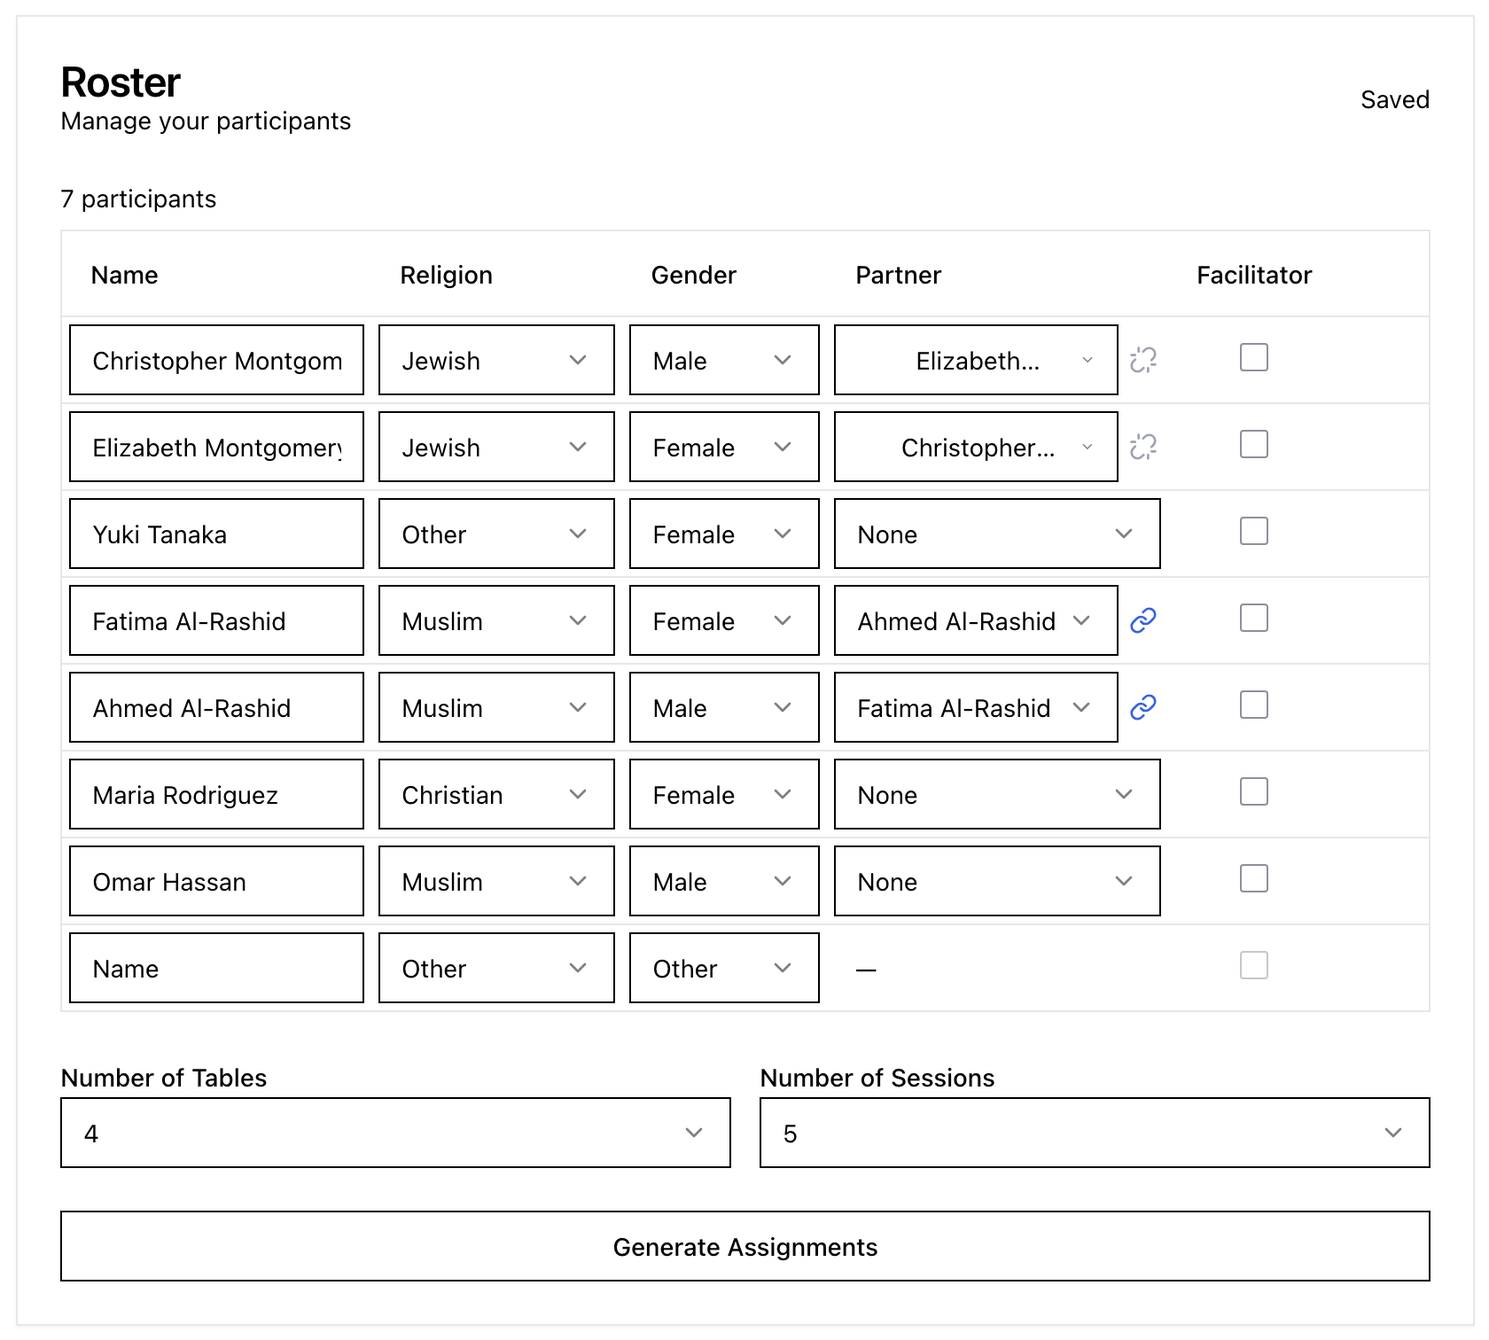
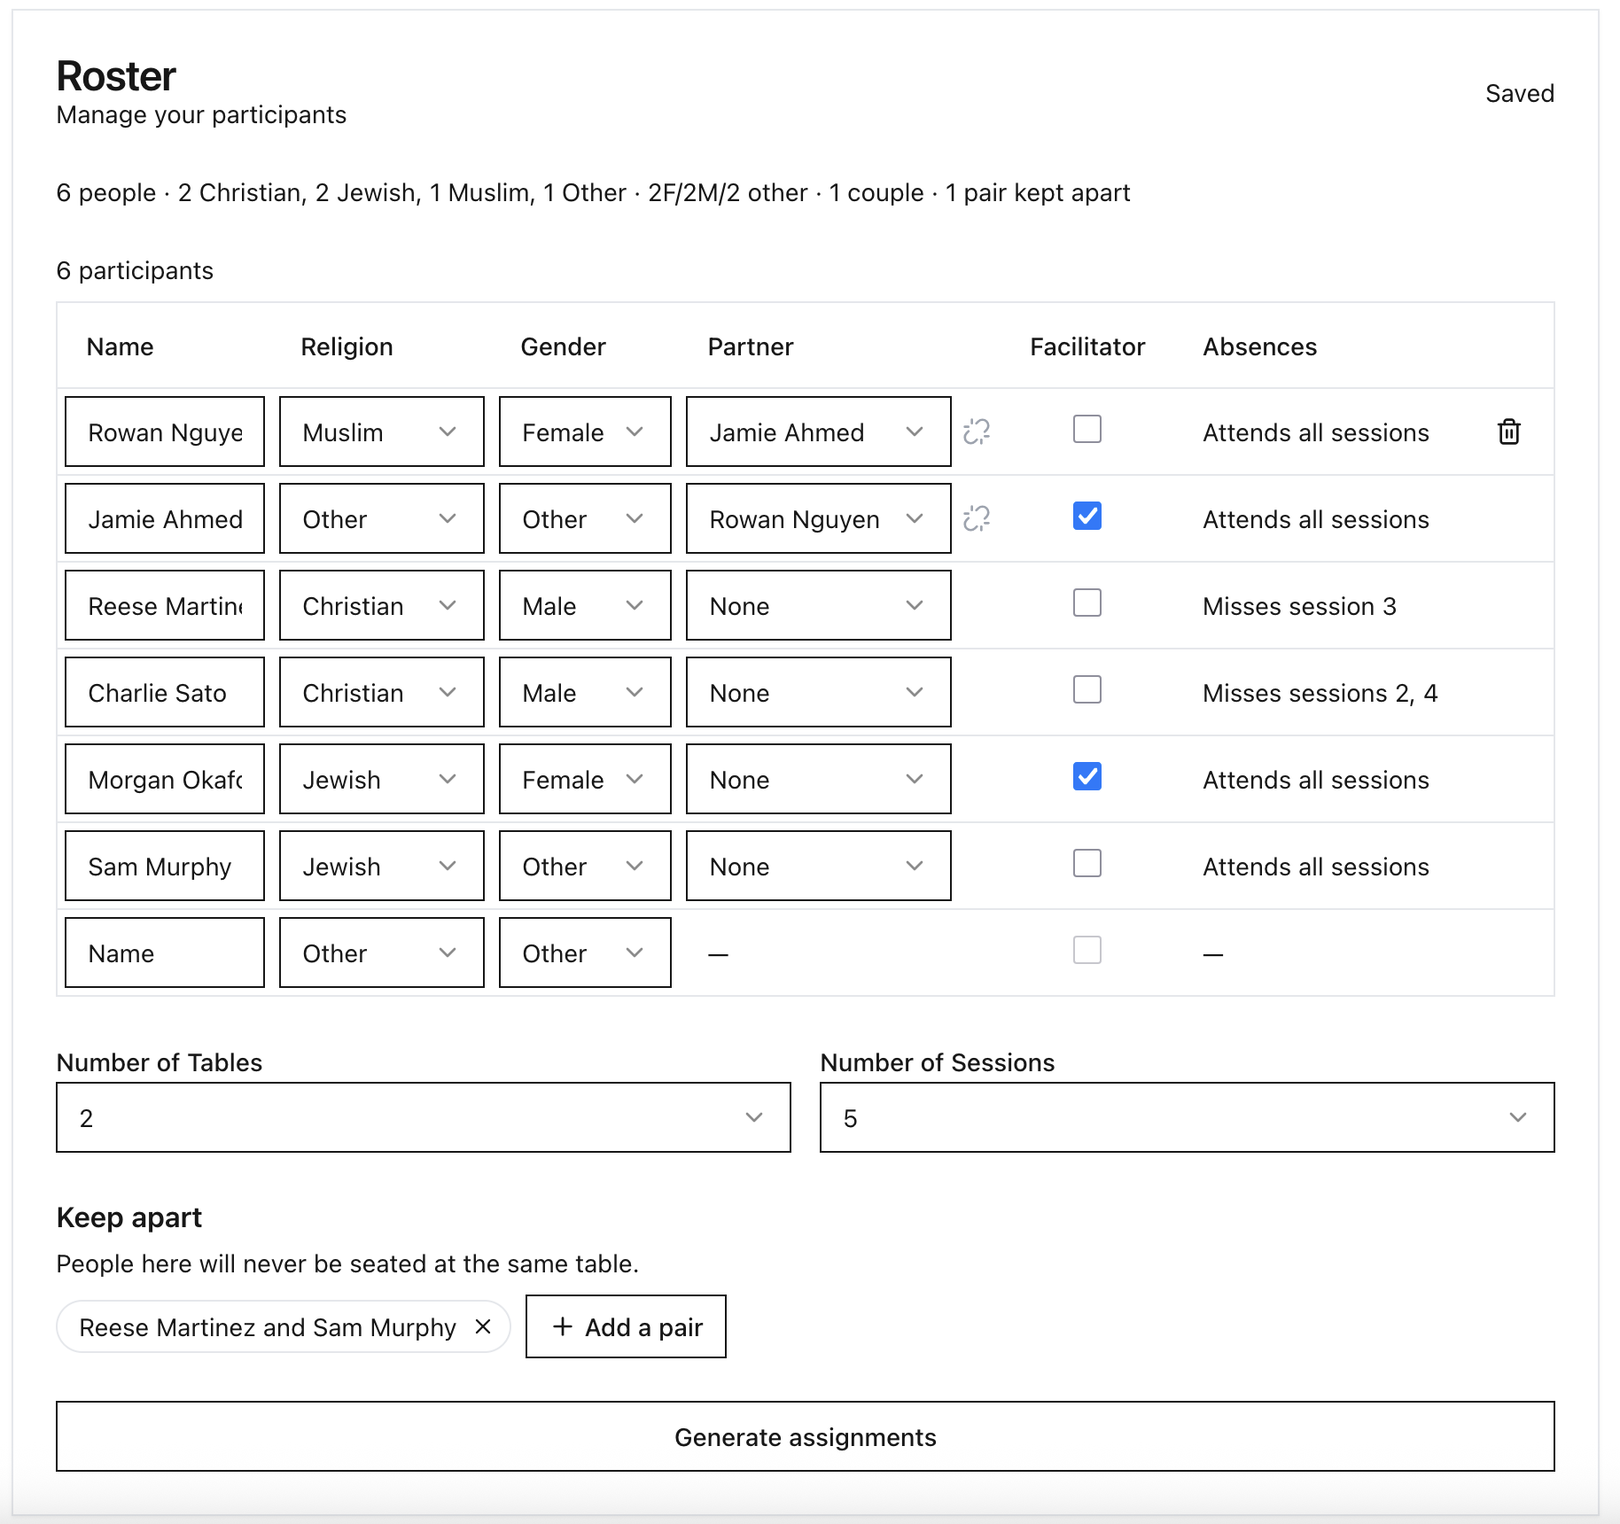
docs(help): rewrite Creating Your Roster and drop stale sections
Post-redesign rewrite of the Help page, done section by section with
the user:

- "Getting Started" -> "Welcome to Group Builder"; drop the unreachable
  "Signing in" subsection; "Finding your way around" now matches the
  current nav (Home, Roster, Assignments, Help)
- "Creating Your Roster": move the screenshot to the top of the section
  so it grounds the column-by-column instructions that follow; rewrite
  the facilitator copy to fit an already-invited facilitator, and note
  the (upcoming) facilitators-at-least-tables requirement; fold the
  autosave tip into "Adding a participant" instead of a floating callout
- Add "Keeping people apart" (the Keep apart feature was previously
  undocumented) and "Editing after you've built groups" (locking, Edit
  roster, Save and rebuild sessions, Discard changes were previously
  undocumented), plus a "Rebuilding while the program is ongoing"
  sub-section covering how a rebuild treats already-completed sessions
  (stub link to a future "marking sessions complete" doc)
- Fold "Generating Groups" into a "Generating assignments" step at the
  end of the roster-setup flow, in happy-path order; drop the stale
  "Already have groups: Regenerate or Fresh Start" section (describes a
  tab UI that no longer exists) and the troubleshooting warning box
  (redundant with the inline disabled-button tooltip, and documented an
  error message that doesn't exist in the backend yet)
- Update the roster-management screenshot to match
[…]

diff --git a/frontend/src/pages/HelpPage.tsx b/frontend/src/pages/HelpPage.tsx
@@ -1,10 +1,9 @@
 import { ArrowUp } from "lucide-react";
-import { Screenshot, TipCallout, WarningCallout, InfoCallout } from "../components/HelpCallouts";
+import { Screenshot, WarningCallout, InfoCallout } from "../components/HelpCallouts";
 
 const tocItems = [
-  { id: "getting-started", label: "Getting Started" },
+  { id: "welcome-to-group-builder", label: "Welcome to Group Builder" },
   { id: "creating-your-roster", label: "Creating Your Roster" },
-  { id: "generating-groups", label: "Generating Groups" },
   { id: "viewing-your-groups", label: "Viewing Your Assignments" },
   { id: "printing-and-sharing", label: "Printing & Sharing" },
   { id: "editing-sessions", label: "Changing a Session" },
@@ -42,10 +41,10 @@ function HelpPage() {
           </ul>
         </nav>
 
-        {/* ===================== Section 1: Getting Started ===================== */}
+        {/* ===================== Section 1: Welcome to Group Builder ===================== */}
         <section className="mb-12">
-          <h2 id="getting-started" className="text-2xl font-bold mb-4 scroll-mt-8">
-            Getting Started
+          <h2 id="welcome-to-group-builder" className="text-2xl font-bold mb-4 scroll-mt-8">
+            Welcome to Group Builder
           </h2>
 
           <h3 className="text-xl font-semibold mb-2">What is Group Builder?</h3>
@@ -58,43 +57,23 @@ function HelpPage() {
             diverse and well-led.
           </p>
 
-          <h3 className="text-xl font-semibold mb-2">Signing in for the first time</h3>
-          <p className="mb-2 text-slate-700 leading-relaxed">
-            Your administrator will send you an invitation email. Here's what to expect:
-          </p>
-          <ol className="list-decimal pl-5 space-y-2 text-slate-700 leading-relaxed mb-4">
-            <li>
-              Open the invitation email and click the link inside. This signs you in
-              automatically and takes you to Group Builder.
-            </li>
-            <li>
-              You'll see which program you've been invited to. Click{" "}
-              <strong>"Accept Invite"</strong> and you're in. From now on, you'll stay
-              signed in — you shouldn't need to do this again.
-            </li>
-          </ol>
-
-          <TipCallout>
-            The first time you sign in, you'll see a welcome page where you can
-            choose to read this guide or jump straight to building your roster.
-          </TipCallout>
-
           <h3 className="text-xl font-semibold mb-2">Finding your way around</h3>
           <p className="mb-2 text-slate-700 leading-relaxed">
             Once you're signed in, you'll see a navigation bar at the top of every page
-            with four links:
+            with a few links:
           </p>
           <ul className="list-disc pl-5 space-y-2 text-slate-700 leading-relaxed mb-4">
             <li>
-              <strong>Home</strong> — Your starting point. Three cards link to Roster,
-              Groups, and Help.
+              <strong>Home</strong> — Your starting point. Cards link to Roster,
+              Assignments, and Help.
             </li>
             <li>
               <strong>Roster</strong> — Where you add and edit your list of participants.
             </li>
             <li>
-              <strong>Groups</strong> — Browse all previously created group assignments,
-              sorted by most recent.
+              <strong>Assignments</strong> — Browse the groups Group Builder has generated
+              for you, sorted by session. This link appears once you've built your first
+              set of groups.
             </li>
             <li>
               <strong>Help</strong> — This page.
@@ -113,6 +92,12 @@ function HelpPage() {
             participants are.
           </p>
 
+          <Screenshot
+            src="/images/help/roster-management.png"
+            alt="The roster manager showing several participants with their religion, gender, partner, and facilitator settings"
+            caption="The roster manager with participants, their details, partner links, and facilitator checkboxes"
+          />
+
           <h3 className="text-xl font-semibold mb-2">Using the Roster Manager</h3>
           <p className="mb-2 text-slate-700 leading-relaxed">
             Click <strong>Roster</strong> in the nav bar to open the roster manager.
@@ -122,24 +107,23 @@ function HelpPage() {
 
           <p className="mb-1 text-slate-700 leading-relaxed font-bold">Adding a participant:</p>
           <p className="mb-4 text-slate-700 leading-relaxed">
-            There's always an empty row at the bottom of the list. Type a name into it,
-            then press Tab or click somewhere else. The participant is saved automatically.
-            A new empty row appears for the next person.
+            As you enter a participant's information, a new empty row will appear
+            for the next person and the roster will save automatically.
           </p>
 
           <p className="mb-1 text-slate-700 leading-relaxed font-bold">Setting details:</p>
           <p className="mb-4 text-slate-700 leading-relaxed">
             Each participant has a <strong>Religion</strong> dropdown (Christian, Jewish,
             Muslim, or Other) and a <strong>Gender</strong> dropdown (Male, Female, or
-            Other). These are used when balancing the tables — every table will
+            Other). These are used when balancing the tables: every table will
             have an even mix of religions and genders.
           </p>
 
           <p className="mb-1 text-slate-700 leading-relaxed font-bold">Setting partners (couples):</p>
           <p className="mb-4 text-slate-700 leading-relaxed">
             If two participants are a couple, use the <strong>Partner</strong> dropdown
-            on either person's row to link them. You only need to do this on one person —
-            the other person updates automatically. By default, the solver will place
+            on either person's row to link them. You only need to do this on one person.
+            The other person updates automatically. By default, the solver will place
             partners at <em>different</em> tables so they each meet new people.
           </p>
           <p className="mb-4 text-slate-700 leading-relaxed">
@@ -152,19 +136,21 @@ function HelpPage() {
 
           <p className="mb-1 text-slate-700 leading-relaxed font-bold">Marking facilitators:</p>
           <p className="mb-4 text-slate-700 leading-relaxed">
-            If someone will be leading table discussions, check the{" "}
-            <strong>Facilitator</strong> box on their row. The solver ensures at least one
-            facilitator at every table. You can mark more facilitators than tables — if
+            Facilitators get added just like regular participants, but should be
+            indicated by checking the <strong>Facilitator</strong> box on their row.
+            The solver ensures at least one facilitator at every table, and you need
+            at least as many facilitators as tables. Building groups is blocked
+            until you have enough. You can mark more facilitators than tables. If
             you have 6 facilitators for 4 tables, some tables will get two.
           </p>
 
           <p className="mb-1 text-slate-700 leading-relaxed font-bold">Recording absences ahead of time:</p>
           <p className="mb-4 text-slate-700 leading-relaxed">
             If you already know someone will miss a session or two, use the{" "}
-            <strong>Away</strong> column on their row and tick the sessions they'll
+            <strong>Absences</strong> column on their row and tick the sessions they'll
             miss. The first build works around those absences. After you've built your
             sessions, absences are managed per session on the Assignments page instead,
-            and the Away column becomes a read-only summary.
+            and the Absences column becomes a read-only summary.
           </p>
 
           <p className="mb-1 text-slate-700 leading-relaxed font-bold">Deleting a participant:</p>
@@ -173,98 +159,87 @@ function HelpPage() {
             Click it to remove them.
           </p>
 
-          <InfoCallout>
-            Your roster saves automatically as you type. You'll see a small "Saving..."
-            indicator at the top that changes to "Saved" when everything is up to date.
-          </InfoCallout>
-
-          <Screenshot
-            src="/images/help/roster-management.png"
-            alt="The roster manager showing several participants with their religion, gender, partner, and facilitator settings"
-            caption="The roster manager with participants, their details, partner links, and facilitator checkboxes"
-          />
-
-
-        </section>
-
-        {/* ===================== Section 3: Generating Groups ===================== */}
-        <section className="mb-12">
-          <h2 id="generating-groups" className="text-2xl font-bold mb-4 scroll-mt-8">
-            Generating Groups
-          </h2>
+          <p className="mb-1 text-slate-700 leading-relaxed font-bold">Keeping people apart:</p>
           <p className="mb-4 text-slate-700 leading-relaxed">
-            Once your roster is ready, it's time to create your groups. Scroll to the
-            bottom of the Roster page to find the generation controls.
+            Sometimes two participants shouldn't share a table. Below the table and
+            session counts, find the <strong>Keep apart</strong> section and click{" "}
+            <strong>+ Add a pair</strong>. Choose two people from the dropdowns and
+            they'll never be seated together in any session. Remove a pair you've
+            added by clicking its remove icon. Partners do not appear as options to
+            keep apart because they are kept apart by default.
           </p>
 
-          <h3 className="text-xl font-semibold mb-2">First time: Fresh Start</h3>
-          <p className="mb-4 text-slate-700 leading-relaxed">
-            If you haven't generated groups yet, you'll see two dropdowns and a{" "}
-            <strong>Generate Assignments</strong> button.
+          <p className="mb-1 text-slate-700 leading-relaxed font-bold">Generating assignments:</p>
+          <p className="mb-1 text-slate-700 leading-relaxed">
+            Once your roster is ready, scroll to the bottom of the Roster page to
+            find <strong>Number of Tables</strong> and <strong>Number of
+            Sessions</strong>.
           </p>
-
-          <p className="mb-1 text-slate-700 leading-relaxed font-bold">
-            Number of Tables
+          <p className="mb-1 text-slate-700 leading-relaxed">
+            <strong>Number of Tables</strong> is how many groups you want per
+            session. If you have 20 participants and choose 4 tables, each table
+            will have about 5 participants and at least 1 facilitator.
+          </p>
+          <p className="mb-1 text-slate-700 leading-relaxed">
+            <strong>Number of Sessions</strong> is how many rounds of different
+            groupings you need, typically one per week of your program. If your
+            program runs for 5 weeks, choose 5 sessions. Each session will have a
+            completely different arrangement so people meet new tablemates each
+            week.
           </p>
           <p className="mb-4 text-slate-700 leading-relaxed">
-            This is how many groups you want per session. If you have 20 participants
-            and choose 4 tables, each table will have about 5 participants and at
-            least 1 facilitator.
+            When you're ready, click <strong>Generate assignments</strong>. The
+            solver will spend about 2 minutes working out the best possible
+            arrangement. You'll see a progress indicator while it works. When
+            it's done, you'll be taken to the results page.
           </p>
 
-          <p className="mb-1 text-slate-700 leading-relaxed font-bold">
-            Number of Sessions
+          <h3 className="text-xl font-semibold mb-2">Editing after you've built groups</h3>
+          <p className="mb-4 text-slate-700 leading-relaxed">
+            Once you've generated a set of sessions, the roster <strong>locks</strong>:
+            every field goes read-only and the header reads "Locked — these are the
+            people your sessions were built from." This is deliberate. It keeps the
+            roster from silently drifting away from the groups you already built.
           </p>
           <p className="mb-4 text-slate-700 leading-relaxed">
-            This is how many rounds of different groupings you need — typically one per
-            week of your program. If your program runs for 5 weeks, choose 5 sessions.
-            Each session will have a completely different arrangement so people meet new
-            tablemates each week.
-          </p>
-
-          <p className="mb-4 text-slate-700 leading-relaxed">
-            When you're ready, click <strong>Generate Assignments</strong>. The solver
-            will spend about 2 minutes working out the best possible arrangement. You'll
-            see a progress indicator while it works. When it's done, you'll be taken to
-            the results page.
-          </p>
-
-          <h3 className="text-xl font-semibold mt-8 mb-2">Already have groups: Regenerate or Fresh Start</h3>
-          <p className="mb-2 text-slate-700 leading-relaxed">
-            If you've generated groups before, the Roster page shows two tabs instead
-            of the flat form:
+            To make a change, click <strong>Edit roster</strong> at the top of the
+            page. The grid, the table and session counts, and the Keep apart section
+            all become editable again. As soon as you make a change, two buttons
+            appear at the bottom:
           </p>
           <ul className="list-disc pl-5 space-y-2 text-slate-700 leading-relaxed mb-4">
             <li>
-              <strong>Regenerate</strong> — Re-runs the solver using your existing table
-              and session counts, and carries over any absences you've recorded in your
-              current version. Use this when you want a different arrangement but don't
-              need to change the structure.
+              <strong>Save and rebuild sessions</strong>: Saves your edits and
+              re-runs the solver to fold them into your sessions.
             </li>
             <li>
-              <strong>Fresh Start</strong> — Lets you pick new table and session counts
-              and generates from scratch. Use this when your program structure has changed.
+              <strong>Discard changes</strong>: Throws away everything you changed
+              since unlocking and re-locks the roster, unchanged.
             </li>
           </ul>
+          <p className="mb-4 text-slate-700 leading-relaxed">
+            Editing the roster doesn't touch your existing sessions by itself.
+            Nothing changes until you click <strong>Save and rebuild sessions</strong>.
+          </p>
 
-          <WarningCallout>
-            <p className="font-semibold mb-2">If something goes wrong:</p>
-            <ul className="list-disc pl-5 space-y-1.5">
-              <li>
-                <strong>The Generate button is grayed out</strong> — You need more
-                participants than tables. For example, if you chose 4 tables, you need
-                at least 5 participants.
-              </li>
-              <li>
-                <strong>"Need at least N facilitators for N tables"</strong> — You
-                marked fewer facilitators than tables. Either go back and mark more
-                people as facilitators, or reduce the number of tables.
-              </li>
-            </ul>
-          </WarningCallout>
+          <h4 className="text-lg font-semibold mb-2">Rebuilding while the program is ongoing</h4>
+          <p className="mb-4 text-slate-700 leading-relaxed">
+            If you've already held at least one session and need to change the
+            roster, you can rebuild your assignments without changing history.
+            Make sure all past sessions are{" "}
+            <a href="#marking-sessions-complete" className="text-blue-600 hover:text-blue-800 underline">
+              marked complete
+            </a>{" "}
+            before clicking <strong>Save and rebuild sessions</strong>. Group
+            Builder will build groups for the remaining sessions using your
+            updated roster, leaving your completed sessions exactly as they
+            were. It still remembers who already sat together in those
+            sessions, so it won't seat the same pair twice just because the
+            rebuild started fresh.
+          </p>
         </section>
 
-        {/* ===================== Section 4: Viewing Your Assignments ===================== */}
+        {/* ===================== Section 3: Viewing Your Assignments ===================== */}
         <section className="mb-12">
           <h2 id="viewing-your-groups" className="text-2xl font-bold mb-4 scroll-mt-8">
             Viewing Your Assignments

diff --git a/frontend/src/pages/__tests__/HelpPage.test.tsx b/frontend/src/pages/__tests__/HelpPage.test.tsx
@@ -13,9 +13,8 @@ describe('HelpPage', () => {
   test('renders table of contents with all section links', () => {
     renderPage();
     const sectionNames = [
-      'Getting Started',
+      'Welcome to Group Builder',
       'Creating Your Roster',
-      'Generating Groups',
       'Viewing Your Assignments',
       'Printing & Sharing',
       'Changing a Session',
@@ -29,9 +28,8 @@ describe('HelpPage', () => {
   test('renders all section headings', () => {
     renderPage();
     const headings = [
-      'Getting Started',
+      'Welcome to Group Builder',
       'Creating Your Roster',
-      'Generating Groups',
       'Viewing Your Assignments',
       'Printing & Sharing',
       'Changing a Session',
@@ -51,7 +49,5 @@ describe('HelpPage', () => {
     renderPage();
     // Info callout explaining that completion runs in order
     expect(screen.getAllByText(/only complete the next session/).length).toBeGreaterThan(0);
-    // Warning callout in generating section
-    expect(screen.getAllByText(/Need at least N facilitators/).length).toBeGreaterThan(0);
   });
 });

diff --git a/CLAUDE.md b/CLAUDE.md
@@ -9,6 +9,7 @@
 - When a user mentions a feature idea or wish, add it to `BACKLOG.md`. Don't plan or implement backlog items unless explicitly asked.
 - **Use superpowers skills for planning.** Don't write ad-hoc plans — use the writing-plans skill and save to `docs/plans/`. The user prefers the deliberative back-and-forth of the skill workflow over "here's a plan, shall I start?"
 - **When closing a feature branch**, update the corresponding plan in `docs/plans/` with a status line at the top: `**Status: Implemented** — merged PR #XX`.
+- **No em-dashes in prose Claude writes** (docs, Help copy, commit messages, etc.). Reformulate with a period or a colon instead. Semicolons are also suspect. Prefer splitting into two sentences.
 
 ## Development Rules
 
